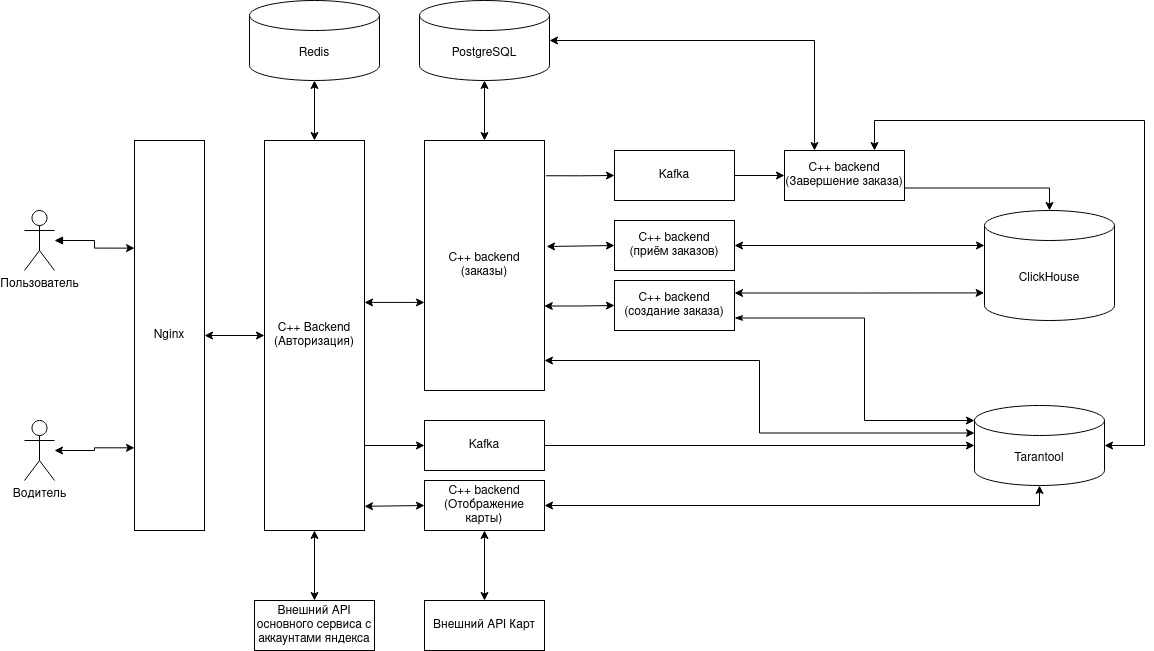
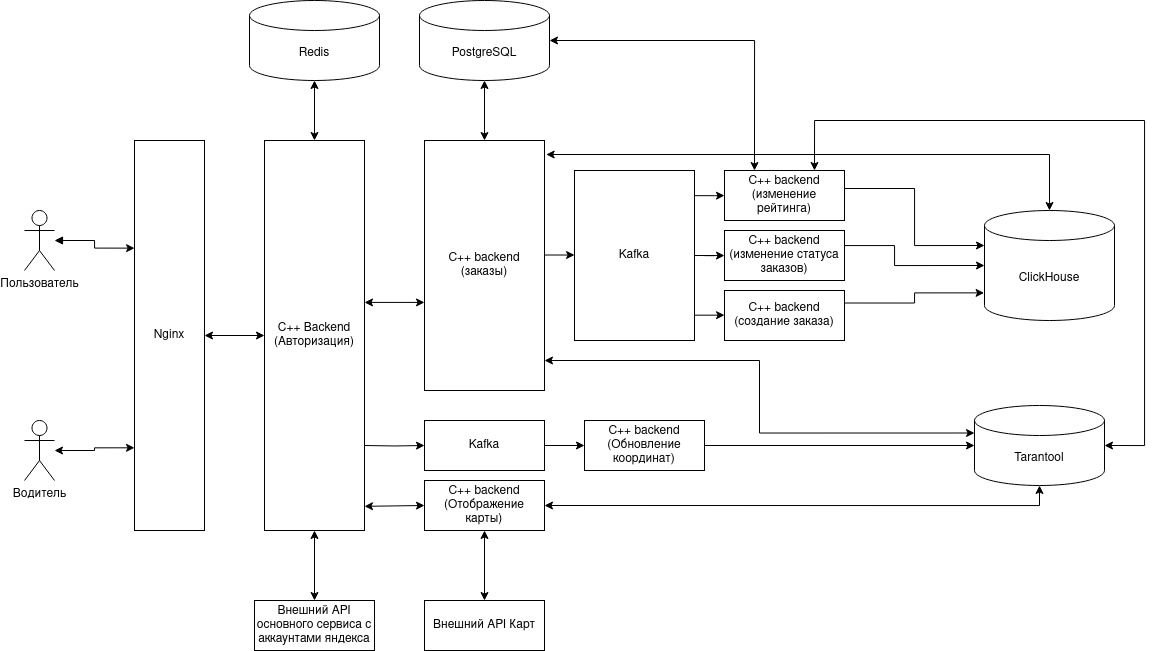
more async

diff --git a/README.md b/README.md
@@ -205,10 +205,10 @@
 |pk |
 
 #### Поездки:
-|id |driver|car|driver_rating|user|user_rating|price|start_addr|end_addr|date|
-|---|------|---|-------------|----|-----------|-----|----------|--------|----|
-|uid|uid   |uid|int          |uid |float      |float|string    |string  |Date|
-|pk |fk    |fk |             |fk|
+|id |driver|car|driver_rating|user|user_rating|price|start_addr|end_addr|date|status|
+|---|------|---|-------------|----|-----------|-----|----------|--------|----|------|
+|uid|uid   |uid|int          |uid |float      |float|string    |string  |Date|int   |
+|pk |fk    |fk |             |fk  |
 
 #### Сессии:
 |id |email |token |
